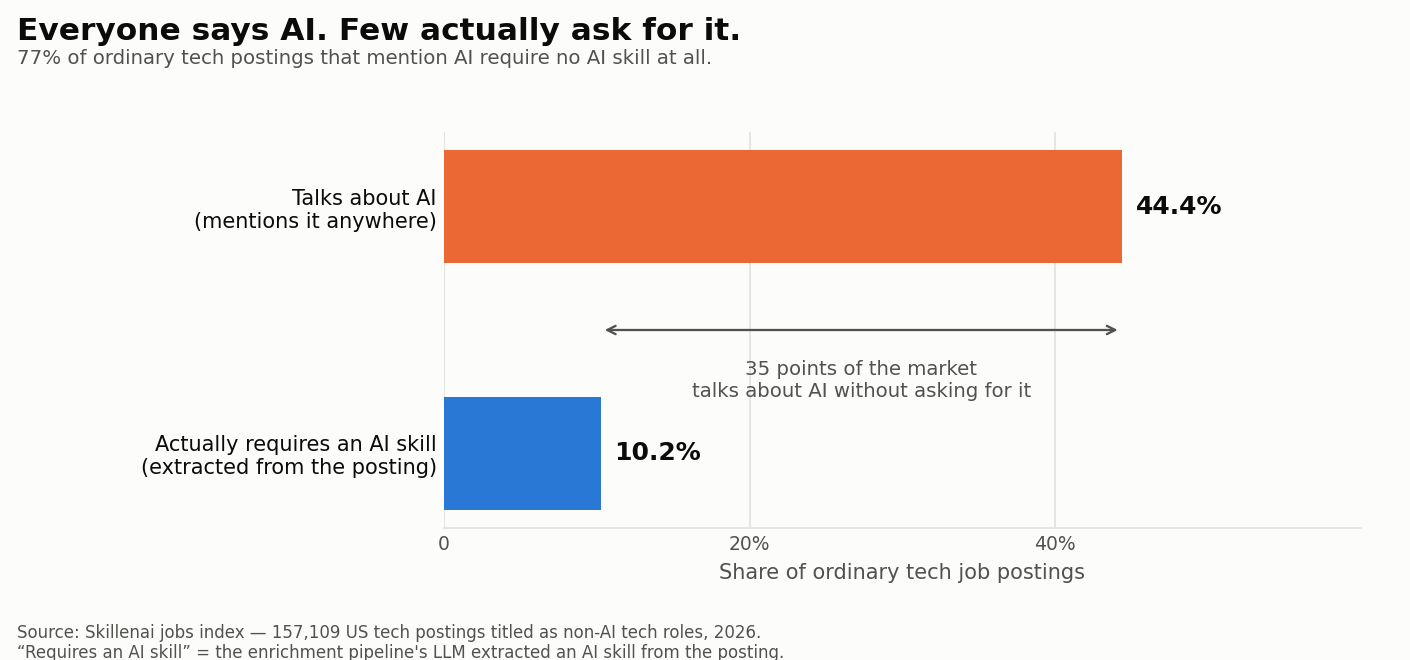
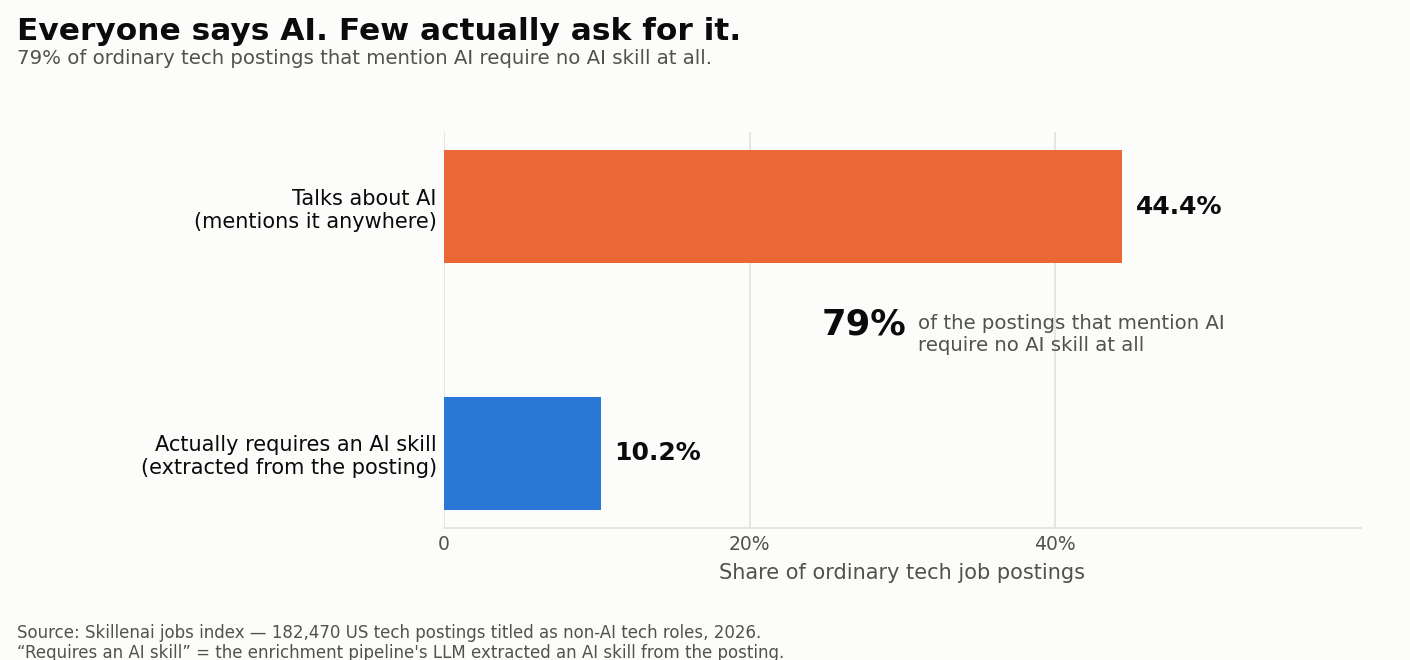
Fix the hype-gap table: the two measures overlap without nesting
"Talks about AI, requires nothing" (63,621) is mentions AND NOT requires, i.e.
80,969 - 17,348 (both). It is NOT 80,969 - 18,694, which is what a reader
subtracting the two visible rows would compute. The old table showed two cells
of a 2x2 and invited an invalid subtraction.

The reason the margins do not reconcile is a finding in itself: 1,346 postings
require an AI skill without ever writing the token "AI" -- 7.2% of all
AI-requiring postings. They say "experience with machine learning", "LLMs",
"PyTorch". A keyword search for "AI" misses one in fourteen of the roles that
actually want AI skills.

- README and blog now show the full cross-tabulation with a note to read the
  cells rather than the margins.
- Figure 4's annotation was an arrow spanning the two bars, which implied the
  same bad subtraction. Replaced with the ratio (79% of AI-mentioning postings
  require no AI skill), which is well defined regardless of overlap.
- Figure 4's subtitle and footer were hardcoded to superseded values (77%,
  157,109); both now derive from ai_hype_gap.csv so they cannot drift again.

Changed region(s): [[0.4369, 0.4545, 0.8738, 0.6061], [0.1872, 0.9394, 0.2496, 0.9697]]

diff --git a/ai-skills-on-cvs/05_make_figures.py b/ai-skills-on-cvs/05_make_figures.py
@@ -58,8 +58,16 @@ def _demand_baseline(path="demand_side_stats.csv"):
     raise KeyError("cohort_postings missing from demand_side_stats.csv")
 
 
-SOURCE_HYPE = (f"Source: Skillenai jobs index — 157,109 US tech postings titled as non-AI tech roles, 2026.\n"
-               "\u201cRequires an AI skill\u201d = the enrichment pipeline's LLM extracted an AI skill from the posting.")
+def _hype(path="ai_hype_gap.csv"):
+    d = {r["metric"]: int(r["count"]) for r in csv.DictReader(open(path))}
+    d["pct_talk_only_of_mentions"] = round(100 * d["talks_but_does_not_require"] / d["mentions_ai_in_text"])
+    return d
+
+
+HYPE = _hype()
+SOURCE_HYPE = (f"Source: Skillenai jobs index — {HYPE['cohort_postings']:,} US tech postings titled as "
+               "non-AI tech roles, 2026.\n\u201cRequires an AI skill\u201d = the enrichment pipeline's "
+               "LLM extracted an AI skill from the posting.")
 SOURCE_DEMAND = (f"Source: Skillenai jobs index — {_demand_baseline():,} US tech postings titled "
                  "as non-AI tech roles, 2026.\nAI-titled roles are excluded: their presence in "
                  "the corpus depends on AI content, which would bias the rate.")
@@ -244,7 +252,7 @@ def fig_hype_gap():
     base = d["cohort_postings"][0]
     mentions = float(d["mentions_ai_in_text"][1])
     requires = float(d["requires_ai_skill"][1])
-    gap = float(d["talks_but_does_not_require"][1])
+    pct = HYPE["pct_talk_only_of_mentions"]
 
     fig, ax = plt.subplots(figsize=(9.4, 4.4), facecolor=SURFACE)
     ax.set_facecolor(SURFACE)
@@ -266,14 +274,16 @@ def fig_hype_gap():
     ax.set_xticklabels(["0", "20%", "40%"])
     ax.set_xlabel("Share of ordinary tech job postings", fontsize=10, color=INK_2)
 
-    ax.annotate("", xy=(requires, 0.5), xytext=(mentions, 0.5),
-                arrowprops=dict(arrowstyle="<->", color=INK_2, lw=1.1))
-    ax.annotate(f"{gap:.0f} points of the market\ntalks about AI without asking for it",
-                xy=((mentions + requires) / 2, 0.62), fontsize=9.5, color=INK_2,
-                ha="center", va="top")
+    # NB: label the RATIO, not a bar-to-bar subtraction. The two measures
+    # overlap without nesting (1,346 postings require an AI skill without ever
+    # writing the token "AI"), so mentions - requires is not a meaningful cell.
+    ax.annotate(f"{pct}%", xy=(27.5, 0.52), fontsize=17, color=INK, weight="bold", ha="center")
+    ax.annotate("of the postings that mention AI\nrequire no AI skill at all",
+                xy=(31.0, 0.52), fontsize=9.5, color=INK_2, va="center")
 
     titles(fig, "Everyone says AI. Few actually ask for it.",
-           "77% of ordinary tech postings that mention AI require no AI skill at all.")
+           f"{HYPE['pct_talk_only_of_mentions']}% of ordinary tech postings that mention AI "
+           "require no AI skill at all.")
     footer(fig, SOURCE_HYPE)
     fig.subplots_adjust(left=0.315, right=0.965, top=0.80, bottom=0.20)
     fig.savefig("04_ai_hype_gap.png", dpi=150, facecolor=SURFACE)

diff --git a/ai-skills-on-cvs/README.md b/ai-skills-on-cvs/README.md
@@ -135,15 +135,21 @@ This is the sharpest result in the analysis, and it uses **two independent instr
 
 ![44% of ordinary tech postings talk about AI but only 10% require an AI skill](04_ai_hype_gap.png)
 
-| | Postings | Share |
-|---|---:|---:|
-| Mentions AI anywhere in the text | 80,969 | **44.4%** |
-| Actually requires an AI skill | 18,694 | **10.2%** |
-| Talks about AI, requires no AI skill | 63,621 | **34.9%** |
+The two measures **overlap without nesting**, so the full cross-tabulation is the honest presentation:
+
+| | Requires an AI skill | Does not | Total |
+|---|---:|---:|---:|
+| **Mentions "AI" in text** | 17,348 | 63,621 | **80,969** (44.4%) |
+| **Does not mention it** | 1,346 | 99,155 | 100,501 |
+| **Total** | **18,694** (10.2%) | 163,776 | 182,470 |
+
+Read the cells, not the margins. `Talks but requires nothing` = 63,621 is *mentions AND NOT requires*, which is 80,969 − 17,348. It is **not** 80,969 − 18,694; that subtraction would assume every AI-requiring posting also contains the literal token "AI".
+
+**1,346 postings require an AI skill but never write the word "AI"** — 7.2% of all AI-requiring postings. They say "experience with machine learning", "LLMs", "PyTorch", "prompt engineering". Worth knowing on its own: a keyword search for "AI" misses one in fourteen of the roles that actually want AI skills.
 
 (The talk row uses the bare token "AI"; §4's 46.4% uses a wider term set. Either way the story is the same.)
 
-**Of the postings that mention AI, 79% ask for no AI skill at all.** The talk-to-ask ratio is **4.3 : 1**, and 35 points of the market — more than a third of all ordinary tech postings — discuss AI without wanting any from the candidate.
+**Of the postings that mention AI, 79% ask for no AI skill at all** (63,621 of 80,969). The talk-to-ask ratio is **4.3 : 1**, and 63,621 postings — more than a third of the ordinary tech market — discuss AI without wanting any from the candidate.
 
 This is market positioning showing up in the hiring data. Claiming to be an AI company is close to free; requiring AI skills of your engineers is a real constraint on your hiring funnel. The 36-point gap is the size of the difference between the two.
 
